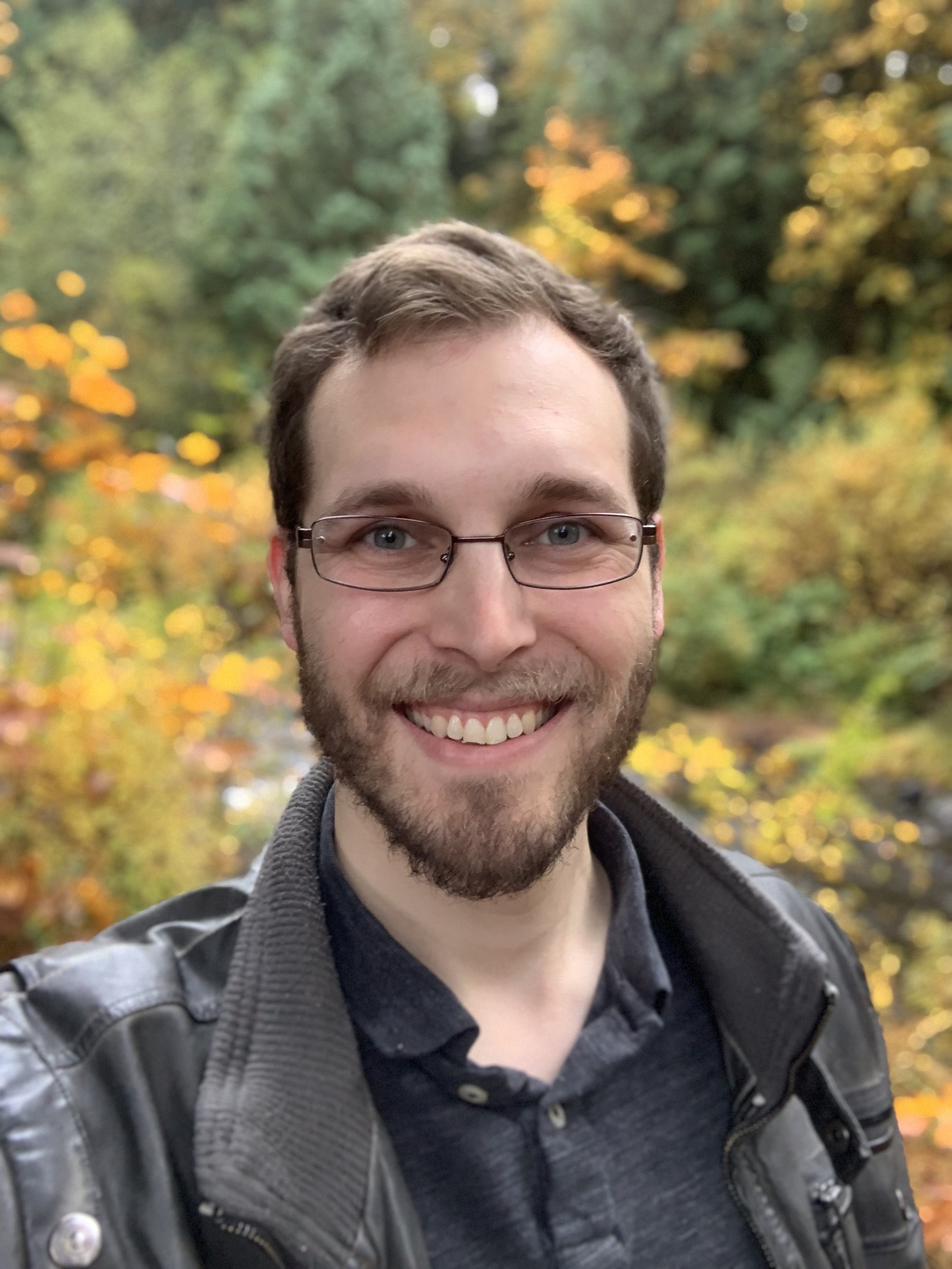
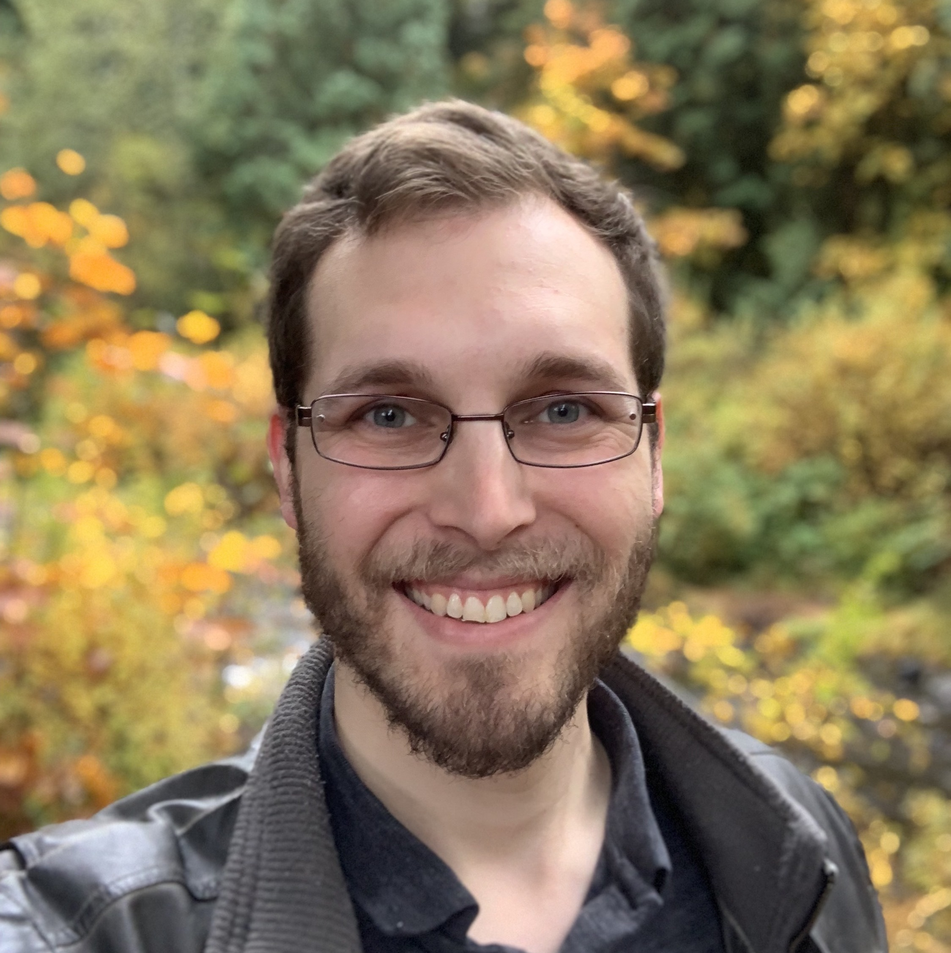
Added better formatting for people listings
Rewrite

Rewrite

Rewrite

Updated CSS

diff --git a/people.html b/people.html
@@ -25,7 +25,7 @@
 									<a href="index.html" class="logo"><strong>CV4Ecology Summer School</strong></a>
 									<ul class="icons">
 										<li><a href="https://twitter.com/cv4ecology" class="icon brands fa-twitter"><span class="label">Twitter</span></a></li>
-				
+
 									</ul>
 								</header>
 
@@ -36,53 +36,96 @@
 									</header>
 
 									<span class="image main"><img src="images/camtraps.png" alt="" /></span>
-									
+
 									<h3>Leadership Team</h3>
-									
-									
-									<h4>Sara Beery</h4>
-								        <p class="bio"><span class="image left"><img src="images/sara2.jpeg" alt="" width="100"/></span>Sara Beery has always been passionate about the natural world, and she saw a need for technology-based approaches to conservation and sustainability challenges. This led her to pursue a PhD at Caltech, where her research focuses on computer vision for global-scale biodiversity monitoring. Her work is funded by an NSF Graduate Research Fellowship, a PIMCO Data Science Fellowship, and an Amazon AI4Science Fellowship. She works closely with Microsoft AI for Earth and Google Research to translate her work into usable tools. Sara’s experiences as a professional ballerina, a queer woman, and a nontraditional student has taught her the value of unique and diverse perspectives in the research community. She’s passionate about increasing diversity and inclusion in STEM through mentorship and outreach.</p>
-									
+					
+									<div class="bio-container">
+							        	<span class="image left">
+							        		<img src="images/sara2_square.jpeg" alt="" width="100"/>
+							        	</span>
+
+										<h4>Sara Beery</h4>
+								        <p class="bio">
+								        	Sara Beery has always been passionate about the natural world, and she saw a need for technology-based approaches to conservation and sustainability challenges. This led her to pursue a PhD at Caltech, where her research focuses on computer vision for global-scale biodiversity monitoring. Her work is funded by an NSF Graduate Research Fellowship, a PIMCO Data Science Fellowship, and an Amazon AI4Science Fellowship. She works closely with Microsoft AI for Earth and Google Research to translate her work into usable tools. Sara’s experiences as a professional ballerina, a queer woman, and a nontraditional student has taught her the value of unique and diverse perspectives in the research community. She’s passionate about increasing diversity and inclusion in STEM through mentorship and outreach.
+								        </p>
+									</div>
+
+									<div class="bio-container">
+										<span class="image left"><img src="images/pietro.jpeg" alt="" width="100" /></span>
+
+										<h4>Pietro Perona</h4>
+										<p class="bio">
+											Professor Perona's research focuses on vision: how do we see and how can we build machines that see. He is currently interested visual recognition, more specifically visual categorization. He is studying how machines can learn to recognize frogs, cars, faces and trees with minimal human supervision, and how machines can learn from human experts. His project 'Visipedia' has produced two smart device apps (iNaturalist and Merlin Bird ID) that anyone can use to recognize the species of plants and animals from a photograph.
+
+											<br/><br/>
+											In collaboration with Professors Anderson and Dickinson, Professor Perona is building vision systems and statistical techniques for measuring actions and activities in fruit flies and mice. This enables geneticists and neuroethologists to investigate the relationship between genes, brains and behavior.
+
+											<br/><br/>
+											Professor Perona is also interested in studying how humans perform visual tasks, such as searching and recognizing image content. One of his recent projects studies how to harness the visual ability of thousands of people on the web.
+										</p>
+									</div>
 									<hr />
-									
-									<h4>Pietro Perona</h4>
-									<p class="bio"><span class="image left"><img src="images/pietro.jpeg" alt="" width="100" /></span>Professor Perona's research focuses on vision: how do we see and how can we build machines that see. He is currently interested visual recognition, more specifically visual categorization. He is studying how machines can learn to recognize frogs, cars, faces and trees with minimal human supervision, and how machines can learn from human experts. His project 'Visipedia' has produced two smart device apps (iNaturalist and Merlin Bird ID) that anyone can use to recognize the species of plants and animals from a photograph.
 
-In collaboration with Professors Anderson and Dickinson, Professor Perona is building vision systems and statistical techniques for measuring actions and activities in fruit flies and mice. This enables geneticists and neuroethologists to investigate the relationship between genes, brains and behavior.
-
-Professor Perona is also interested in studying how humans perform visual tasks, such as searching and recognizing image content. One of his recent projects studies how to harness the visual ability of thousands of people on the web.
-
-</p>
-									
-									<hr />
 									<h3>Instructors</h3>
-									<hr />
-									
-									<h4>Elijah Cole</h4>
-									<p class="bio"><span class="image left"><img src="images/eli.jpeg" alt="" width="50" /></span>Elijah is a Computing and Mathematical Sciences Ph.D. student in the Computational Vision Group at Caltech, advised by Pietro Perona. He's also involved in the Visipedia project. He's interested in computer vision, machine learning, and using these techniques to enable scientific progress in ecology and medicine. His work is supported by an NSF Graduate Research Fellowship.</p>
-									
-									<h4>Jason Parham</h4>
-									<p class="bio"><span class="image left"><img src="images/headshot4.jpg" alt="" width="100" /></span>Jason is a Senior Computer Vision Research Engineer at WildMe. He received his B.S. in Computer Science / Mathematics from Pepperdine University in Malibu, CA in 2008 and holds a 2015 M.S. in Computer Science from RPI in Troy, NY. Jason is finishing his Ph.D. under the advising of Dr. Charles Stewart in the Computer Vision research group at RPI.
 
-Jason’s Masters thesis was on the design and implementation of a citizen science-powered photographic censusing of the zebra and giraffe in the Nairobi National Park. His current doctoral research focuses on object detection and classification, using deep learning on wildlife imagery, to power photographic censusing. Jason is a co-developer of Wildbook‘s Image Analysis components, which are used to monitor animal populations in conservancies around Kenya and which integrate with the Wildbook data management platform. Previously, Jason worked three years for Kitware, Inc. in Clifton Park on detecting vehicles and military aircraft in overhead satellite imagery. His work at Kitware led to the development of KWCNN, a customized Python module that enables easy training of deep learning networks such as Fully-Convolutional Neural Networks (FCNNs) and Generative Autoencoder Networks (GANs).</p>
-									
-									<h4>Benjamin Kellenberger</h4>
-									<p class="bio"><span class="image left"><img src="images/bkellenb.jpeg" alt="" width="100" /></span>
-Benjamin is a researcher with Devis Tuia at the ECEO lab of EPFL, Sion, Switzerland. He works in the fields of Remote Sensing, Computer Vision, and Machine Learning. His focus is primarily on animal conservation from above—using aerial imagery from airplanes, drones, etc. and machine-based tools to efficiently identify, count, and with that protect endangered animal species.</p>
-									
+									<div class="bio-container">
+										<span class="image left">
+											<img src="images/eli.jpeg" alt="" width="50" />
+										</span>
+
+										<h4>Elijah Cole</h4>
+										<p class="bio">
+											Elijah is a Computing and Mathematical Sciences Ph.D. student in the Computational Vision Group at Caltech, advised by Pietro Perona. He's also involved in the Visipedia project. He's interested in computer vision, machine learning, and using these techniques to enable scientific progress in ecology and medicine. His work is supported by an NSF Graduate Research Fellowship.
+										</p>
+									</div>
+
+									<div class="bio-container">
+										<span class="image left"><img src="images/headshot4.jpg" alt="" width="100" /></span>
+
+										<h4>Jason Parham</h4>
+										<p class="bio">
+											Jason is a Senior Computer Vision Research Engineer at WildMe. He received his B.S. in Computer Science / Mathematics from Pepperdine University in Malibu, CA in 2008 and holds a 2015 M.S. in Computer Science from RPI in Troy, NY. Jason is finishing his Ph.D. under the advising of Dr. Charles Stewart in the Computer Vision research group at RPI.
+
+											<br/><br/>
+											Jason’s Masters thesis was on the design and implementation of a citizen science-powered photographic censusing of the zebra and giraffe in the Nairobi National Park. His current doctoral research focuses on object detection and classification, using deep learning on wildlife imagery, to power photographic censusing. Jason is a co-developer of Wildbook‘s Image Analysis components, which are used to monitor animal populations in conservancies around Kenya and which integrate with the Wildbook data management platform. Previously, Jason worked three years for Kitware, Inc. in Clifton Park on detecting vehicles and military aircraft in overhead satellite imagery. His work at Kitware led to the development of KWCNN, a customized Python module that enables easy training of deep learning networks such as Fully-Convolutional Neural Networks (FCNNs) and Generative Autoencoder Networks (GANs).
+										</p>
+									</div>
+
+									<div class="bio-container">
+										<span class="image left"><img src="images/bkellenb.jpeg" alt="" width="100" /></span>
+
+										<h4>Benjamin Kellenberger</h4>
+										<p class="bio">
+											Benjamin is a researcher with Devis Tuia at the ECEO lab of EPFL, Sion, Switzerland. He works in the fields of Remote Sensing, Computer Vision, and Machine Learning. His focus is primarily on animal conservation from above—using aerial imagery from airplanes, drones, etc. and machine-based tools to efficiently identify, count, and with that protect endangered animal species.
+										</p>
+									</div>
 									<hr />
+
 									<h3>Speakers</h3>
-									<hr />
-									<h4>Ben Weinstein, University of Florida</h4>
-									<h4>Hannah Kerner & Catherine Nakalembe, NASA Harvest</h4>
-									<h4>Oisin mac Aodha, University of Edinburgh</h4>
-									<h4>Tanya Berger-Wolf, The Ohio State University</h4>
-									<h4>Dan Morris, Microsoft AI for Earth</h4>
-									<h4>Devis Tuia, EPFL</h4>
-									<h4>Angjoo Kanazawa, UC Berkeley</h4>
-									
 
-									
+									<div class="speakers-container">
+										<h4>Ben Weinstein</h4>
+										<p>University of Florida</p>
+
+										<h4>Hannah Kerner & Catherine Nakalembe</h4>
+										<p>NASA Harvest</p>
+
+										<h4>Oisin mac Aodha</h4>
+										<p>University of Edinburgh</p>
+
+										<h4>Tanya Berger-Wolf</h4>
+										<p>The Ohio State University</p>
+
+										<h4>Dan Morris</h4>
+										<p>Microsoft AI for Earth</p>
+
+										<h4>Devis Tuia</h4>
+										<p>EPFL</p>
+
+										<h4>Angjoo Kanazawa</h4>
+										<p>UC Berkeley</p>
+									</div>
+
 								</section>
 
 						</div>

diff --git a/assets/css/main.css b/assets/css/main.css
@@ -2272,4 +2272,27 @@ button,
     margin-top: 0;
     padding-top: 0; }
 
-.bio { min-height: 300px; /* or use a variable if you want to be fancy */ }
+.bio { 
+  /* min-height: 300px; */
+}
+
+.bio-container {
+  display: inline-block;
+}
+
+.bio-container h4 {
+  padding-top: 0.5em;
+}
+
+.bio-container .image {
+  width: 20%;
+  min-width:  250px;
+}
+
+.speakers-container { 
+  padding-left:  2em;
+}
+
+.speakers-container h4 { 
+  margin-bottom:  0.2em;
+}
